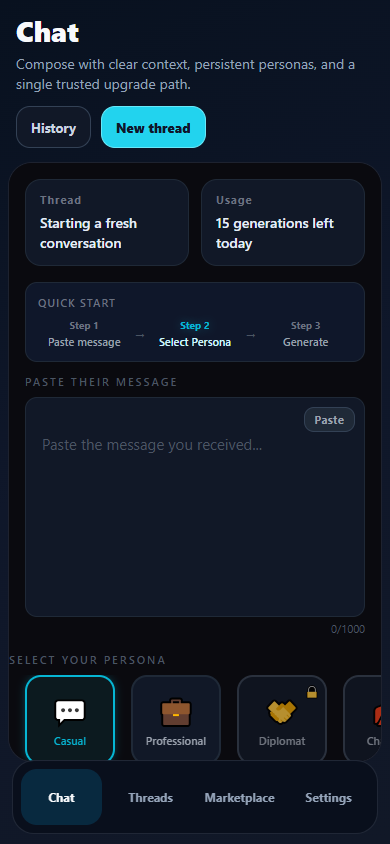
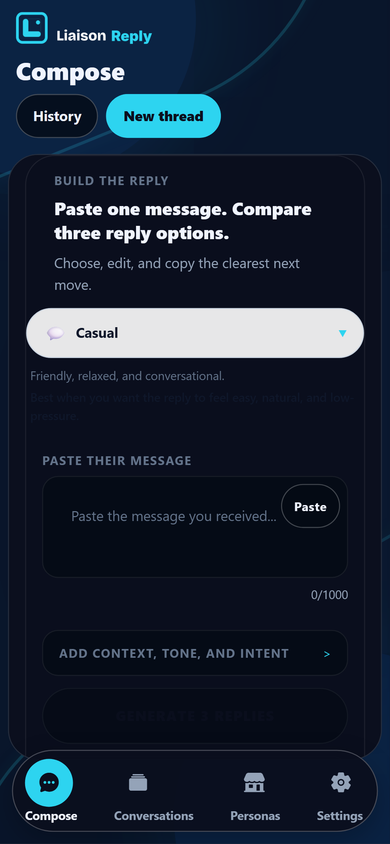
feat(landing): update hero mobile dashboard image and alt text
Update the hero mobile dashboard preview image to show the compose dashboard view, and revise the alt text to accurately describe the new image contents including history, thread controls, persona selection, message input, context controls, and navigation.

diff --git a/index.html b/index.html
@@ -300,7 +300,7 @@
                   <img
                     class="hero-real-image"
                     src="./assets/previews/hero-mobile-dashboard-real.png"
-                    alt="Liaison Reply mobile dashboard showing the chat workspace, usage summary, quick start steps, persona tray, and bottom navigation."
+                    alt="Liaison Reply mobile compose dashboard showing history and new thread controls, persona selection, message input, context controls, and bottom navigation."
                     width="375"
                     height="812"
                     loading="eager"
